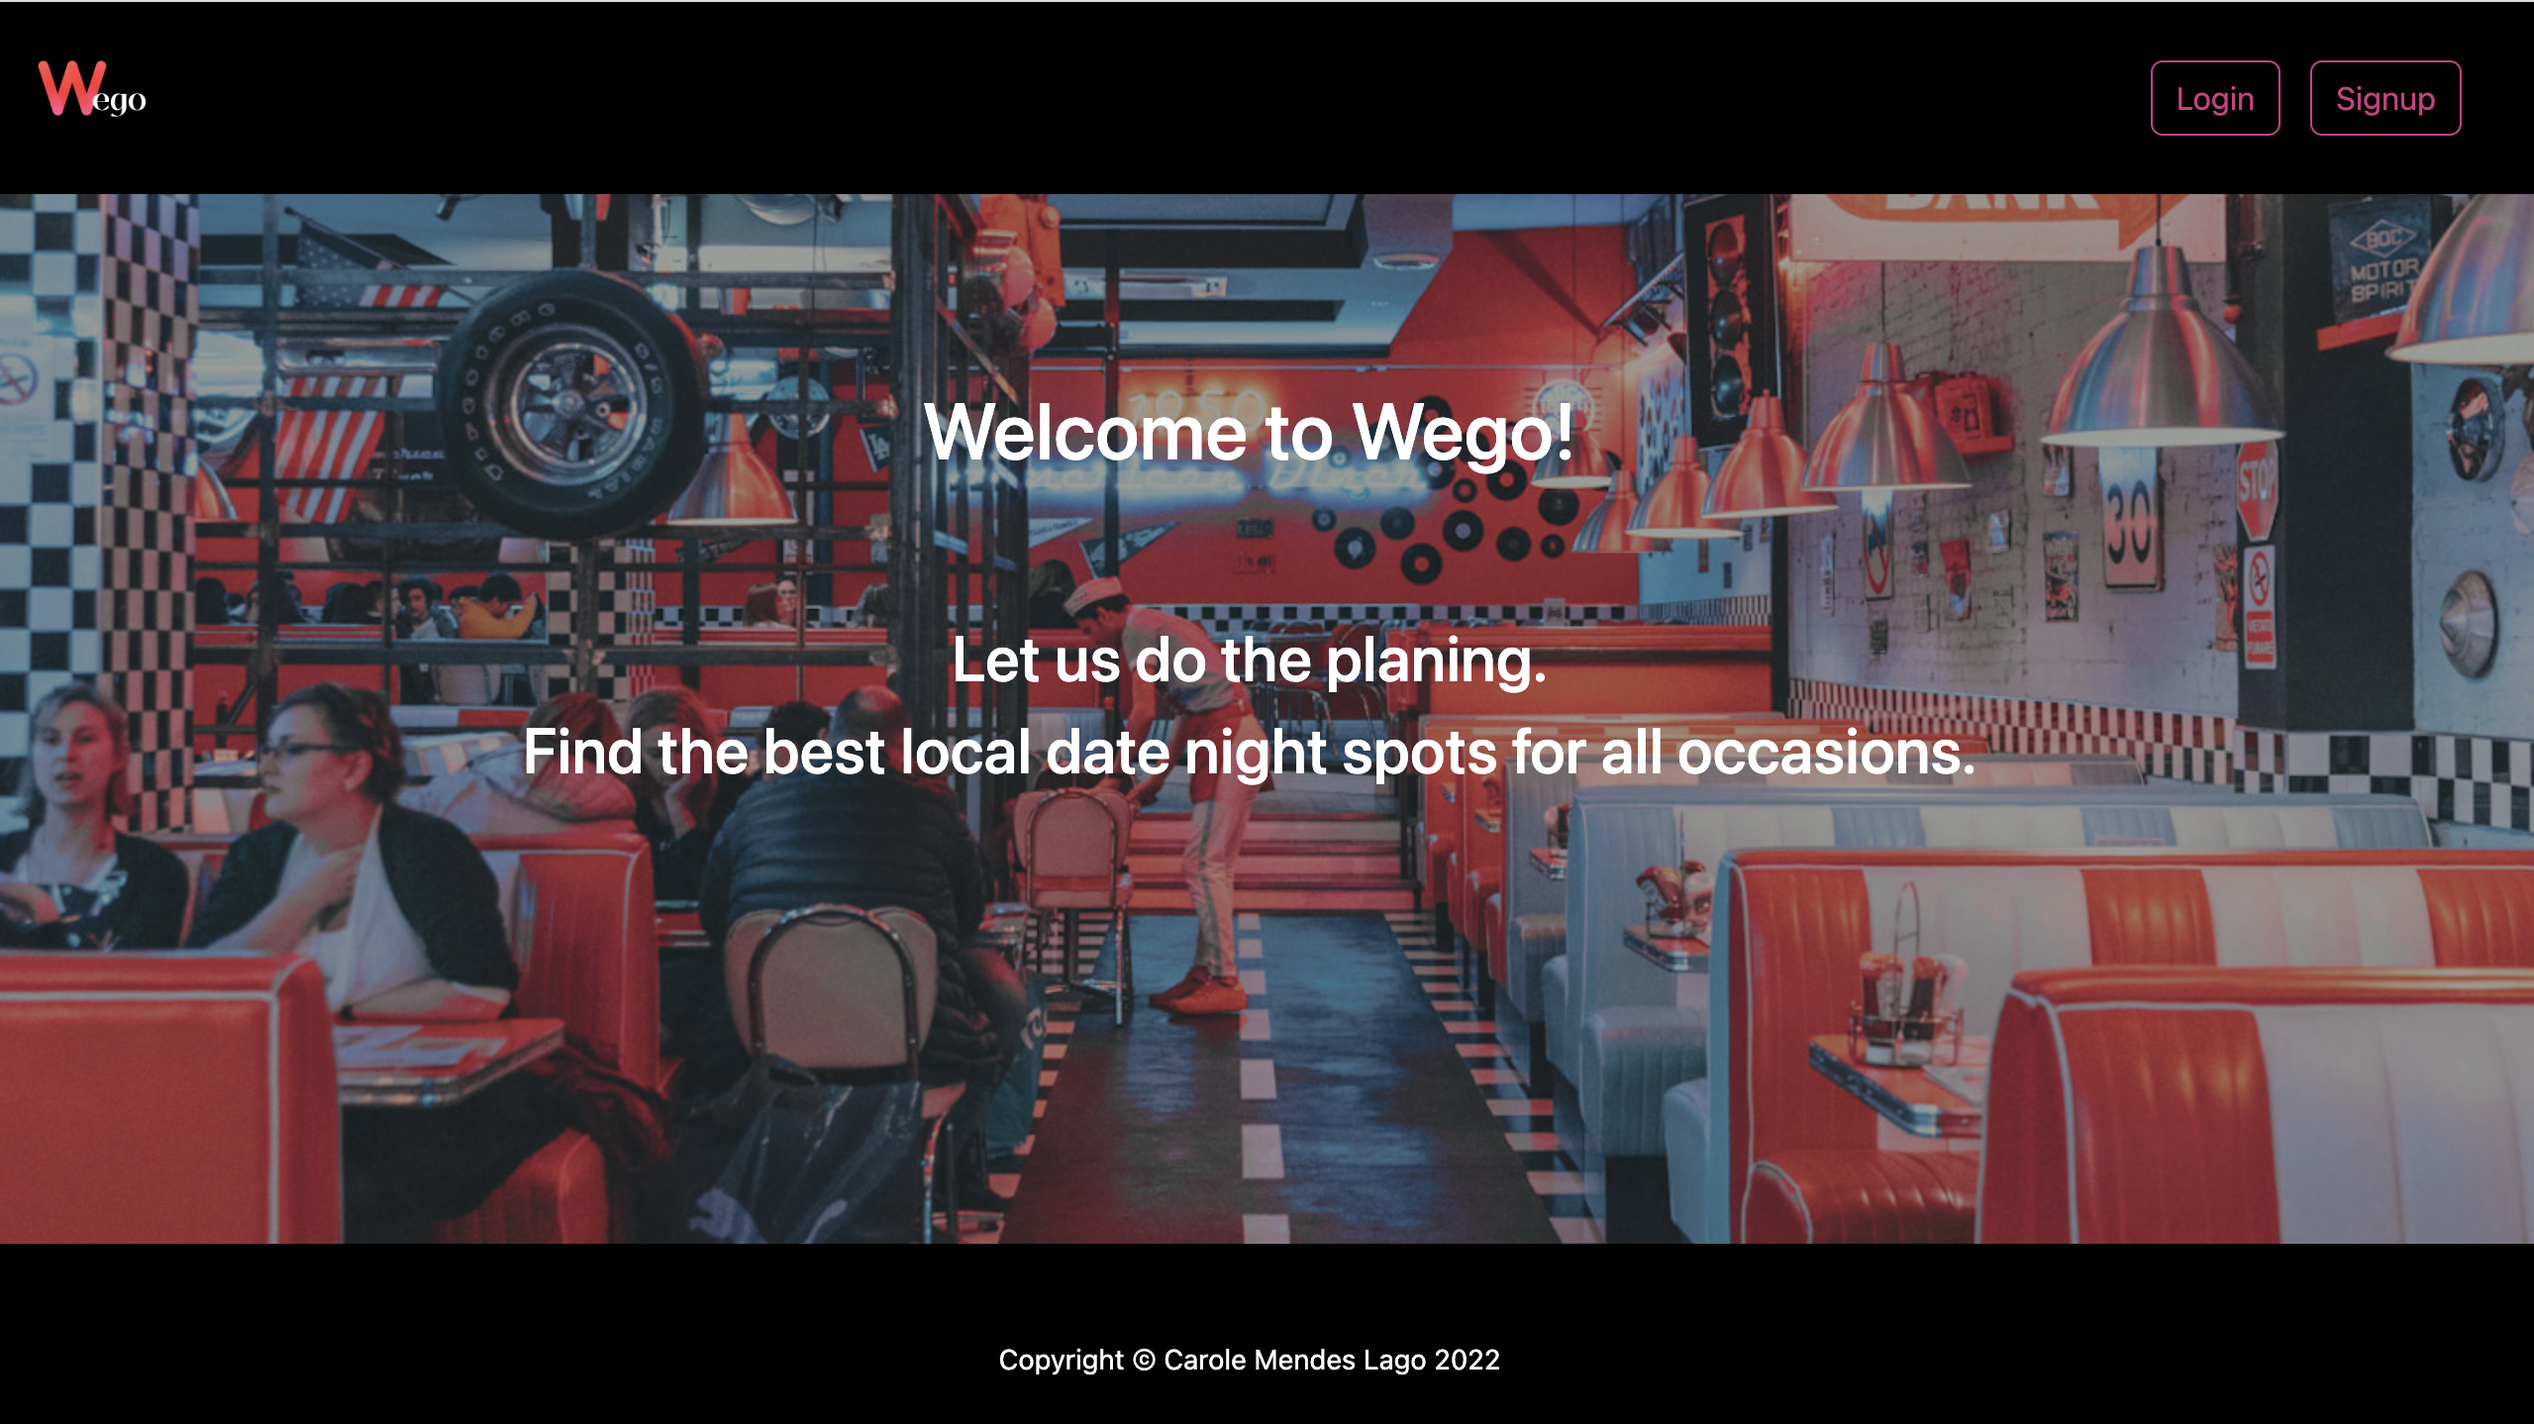
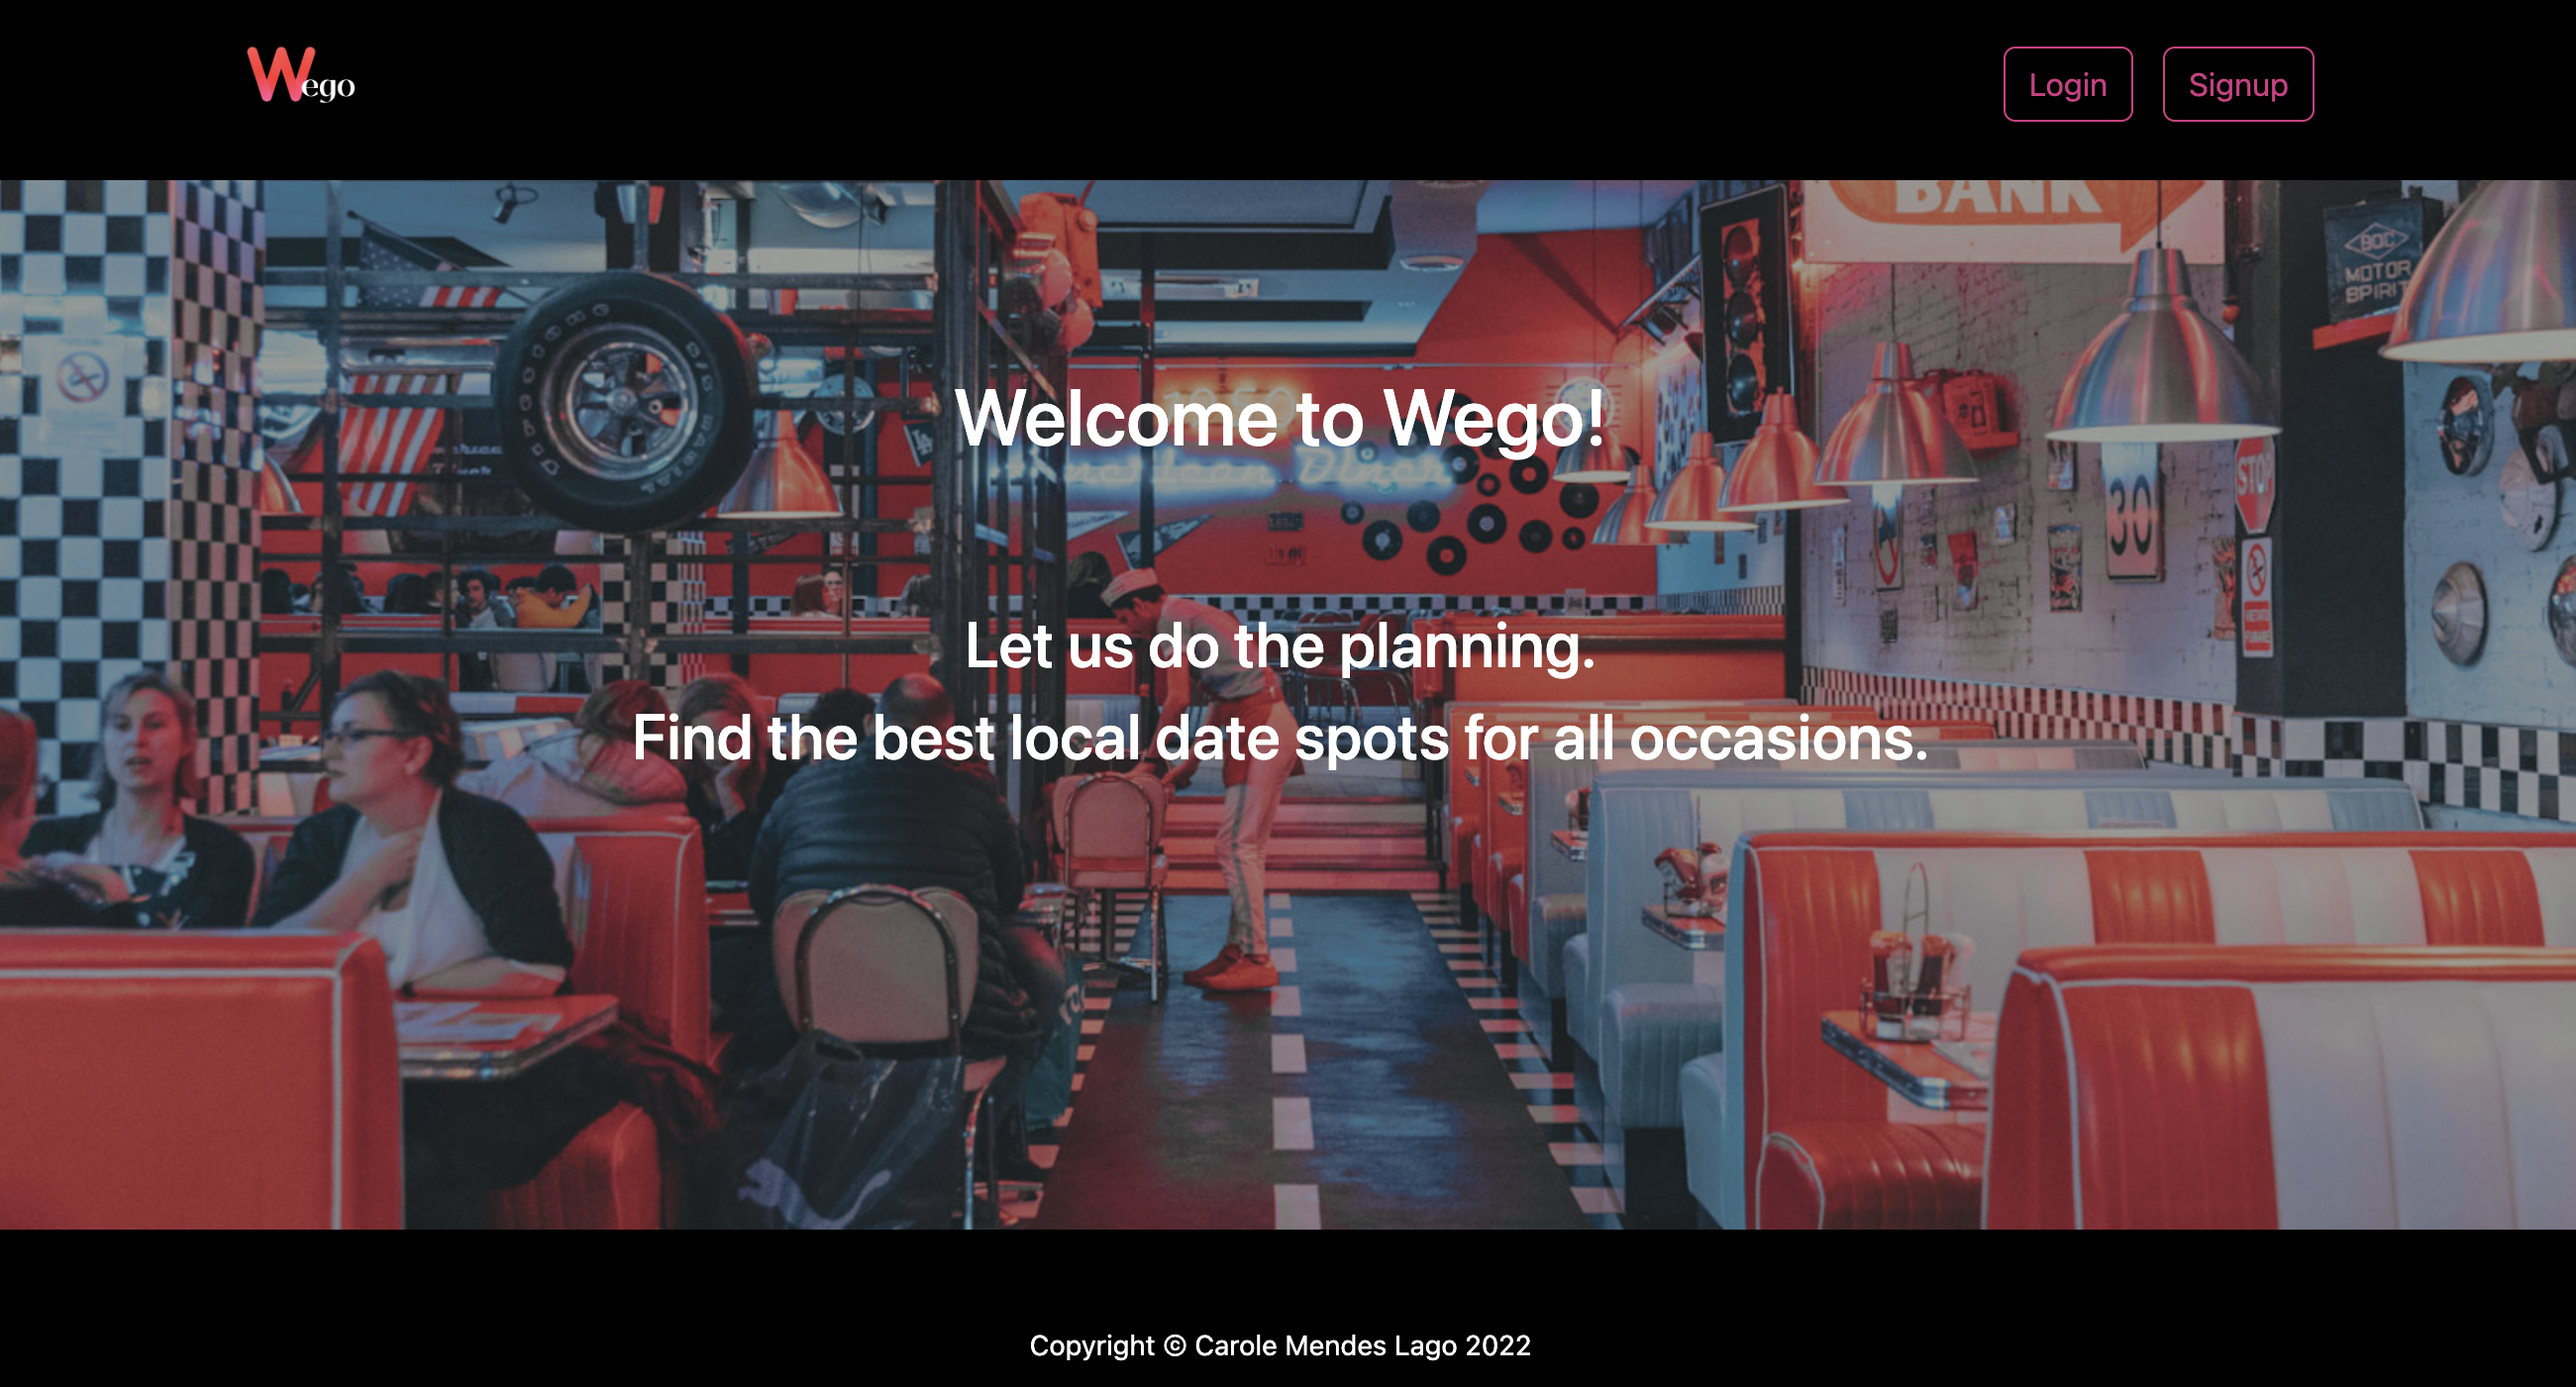
For README

diff --git a/templates/user_profile.html b/templates/user_profile.html
@@ -144,8 +144,6 @@
                         <h5 class="card-title">{{ plan.plan_name}}</h5>
                         <p class="card-text">You're going to {{plan.plan_name}}</p>
                         <input id="plan-id{{loop.index0}}" value="{{plan.plan_id}}" hidden> </input>
-                        <!-- <p>{{ plan.location }}</p>
-                        <p>{{ plan.start_time.strftime("%m-%d-%Y") }} to {{ plan.end_time.strftime("%m-%d-%Y") }}</p> -->
                         <a href="{{ plan.url }}"class="btn btn-primary">Go to Website</a>
                             <!-- Delete Event -->
                             <button class="delete" type="click" id="{{plan.plan_id}}" name="delete-plan">Delete Event <svg xmlns="http://www.w3.org/2000/svg" width="16" height="16" fill="currentColor" class="bi bi-trash" viewBox="0 0 16 16">

diff --git a/templates/homepage.html b/templates/homepage.html
@@ -35,8 +35,8 @@
                         <br>
                         <br>
                         <br>
-                        <h2>Let us do the planing.</h2>
-                            <h2>Find the best local date night spots for all occasions. </h2>
+                        <h2>Let us do the planning.</h2>
+                            <h2>Find the best local date spots for all occasions. </h2>
                     </div>
                 </div>
 

diff --git a/static/css/styles.css b/static/css/styles.css
@@ -124,7 +124,7 @@ font-weight:500;
   margin-top: 20%;
 }
 .card.col-4{
-  height: 30%;
+  height: 500px;
   width: 30%;
 }
 .card-img-top{
